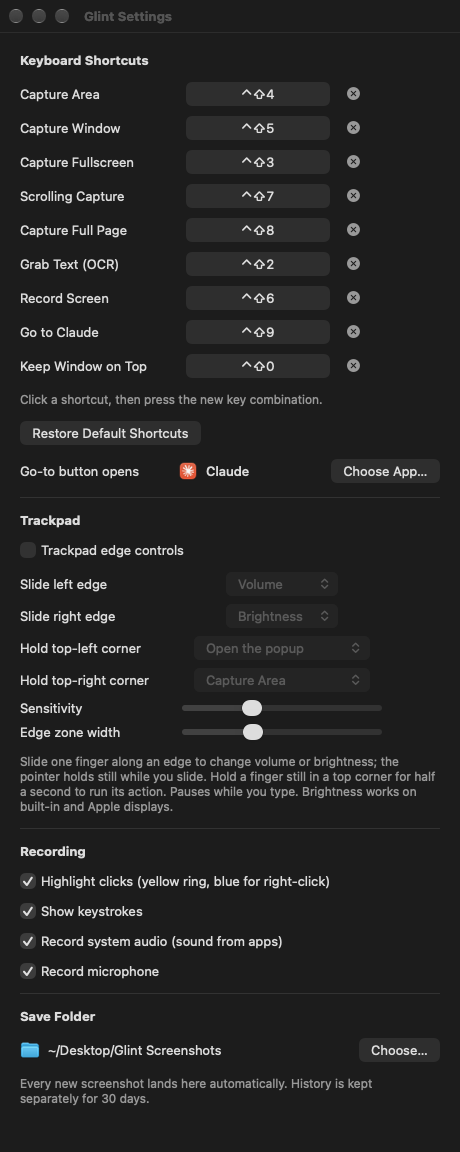
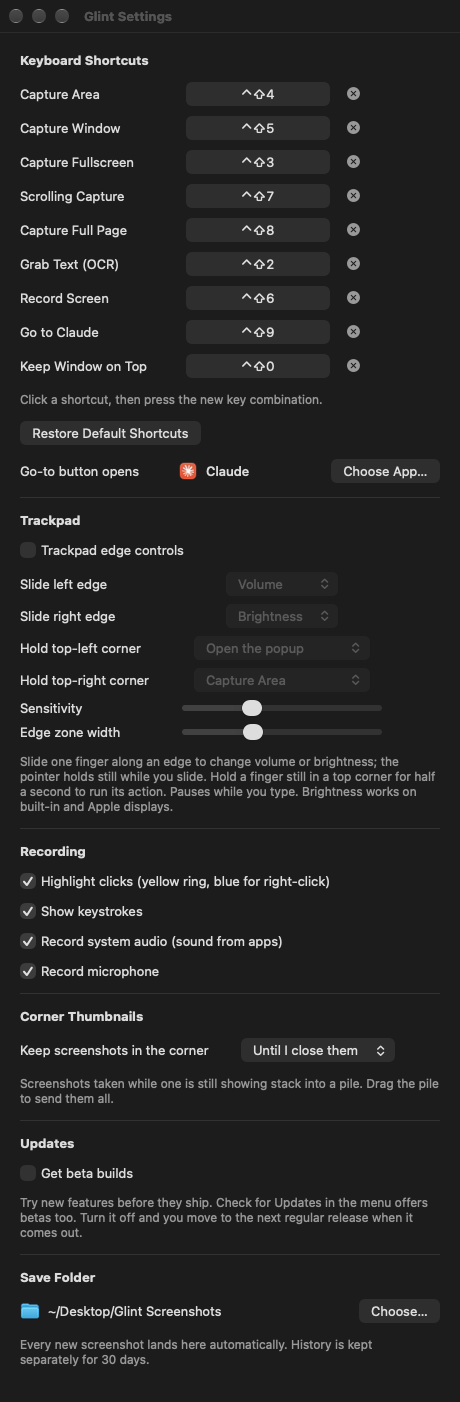
Version 0.2.3: screenshot pile, What's New, README

diff --git a/Sources/Pile.swift b/Sources/Pile.swift
@@ -119,7 +119,7 @@ struct PileCollapsedView: View {
 
     private var overlay: some View {
         ZStack {
-            Color.black.opacity(state.controlsVisible ? 0.35 : 0).allowsHitTesting(false)
+            Color.black.opacity(state.controlsVisible ? 0.5 : 0).allowsHitTesting(false)
             VStack {
                 HStack(alignment: .top) {
                     Text("\(model.items.count)")
@@ -140,7 +140,9 @@ struct PileCollapsedView: View {
                 Spacer()
                 if state.controlsVisible {
                     Text("Click to see all · drag to send all")
-                        .font(.system(size: 10, weight: .medium)).foregroundStyle(.white.opacity(0.85))
+                        .font(.system(size: 10, weight: .medium)).foregroundStyle(.white)
+                        .padding(.horizontal, 8).padding(.vertical, 3)
+                        .background(.black.opacity(0.6), in: Capsule())
                         .allowsHitTesting(false)
                 }
                 Button {
@@ -149,7 +151,8 @@ struct PileCollapsedView: View {
                     Label("Copy all", systemImage: "doc.on.doc")
                         .font(.system(size: 11, weight: .semibold))
                         .padding(.horizontal, 10).padding(.vertical, 5)
-                        .background(.white.opacity(0.22), in: Capsule())
+                        .background(Color(white: 0.16).opacity(0.92), in: Capsule())
+                        .overlay(Capsule().stroke(.white.opacity(0.25), lineWidth: 1))
                         .foregroundStyle(.white)
                 }
                 .buttonStyle(.plain).padding(.bottom, 8)
@@ -353,7 +356,14 @@ enum PileTest {
                     s.draw(at: NSPoint(x: 300, y: 210), withAttributes: [.font: NSFont.boldSystemFont(ofSize: 72), .foregroundColor: NSColor.white])
                     return true
                 }
-                if let tiff = img.tiffRepresentation, let png = NSBitmapImageRep(data: tiff)?.representation(using: .png, properties: [:]) {
+                // -pile.source <png>: use crops of that image instead (the README's made-up dashboard).
+                let crops = [CGRect(x: 30, y: 220, width: 1140, height: 170), CGRect(x: 40, y: 395, width: 740, height: 365),
+                             CGRect(x: 785, y: 395, width: 380, height: 330)]
+                if let src = UserDefaults.standard.string(forKey: "pile.source"), let cg = Store.cgImage(URL(fileURLWithPath: src)),
+                   let part = cg.cropping(to: crops[i]),
+                   let png = NSBitmapImageRep(cgImage: part).representation(using: .png, properties: [:]) {
+                    try? png.write(to: u)
+                } else if let tiff = img.tiffRepresentation, let png = NSBitmapImageRep(data: tiff)?.representation(using: .png, properties: [:]) {
                     try? png.write(to: u)
                 }
                 urls.append(u)

diff --git a/Sources/Onboarding.swift b/Sources/Onboarding.swift
@@ -159,6 +159,11 @@ struct WhatsNew {
 
     /// Notes per version. Add an entry when a release has something worth showing; versions without one stay quiet.
     static let notes: [String: WhatsNew] = [
+        "0.2.3": WhatsNew(headline: "Shots pile up, send them together", features: [
+            Feature(title: "Screenshot pile", body: "Take a few shots in a row and they stack in the corner. Drag the pile into Claude or any app to send them all, or click it to pick one.", media: "sf:square.stack.3d.up.fill"),
+            Feature(title: "Copy all", body: "Hover the pile and hit Copy all to paste every shot at once.", media: "sf:doc.on.doc.fill"),
+            Feature(title: "Stays until you're done", body: "Corner thumbnails now wait until you close them. Prefer them to fade? Settings > Corner Thumbnails.", media: "sf:clock.fill"),
+        ]),
         "0.2.2": WhatsNew(headline: "Pin a window, swipe the edges", features: [
             Feature(title: "Keep a window on top", body: "Press Control-Shift-0 and click any window. It stays above everything until you unlock it from the menu bar.", media: "sf:pin.square.fill"),
             Feature(title: "Trackpad edge controls", body: "Slide one finger along the left edge for volume, the right edge for brightness. Hold a top corner to run an action. Turn it on in Glint Settings.", media: "sf:hand.point.up.left.fill"),

diff --git a/Sources/Settings.swift b/Sources/Settings.swift
@@ -223,7 +223,7 @@ enum SettingsWindow {
         let w = window ?? {
             // Taller than a laptop screen with every section, so it scrolls and fits the screen.
             let screenH = (NSScreen.main?.visibleFrame.height ?? 900) - 40
-            let w = NSWindow(contentRect: NSRect(x: 0, y: 0, width: 460, height: min(1120, screenH)),
+            let w = NSWindow(contentRect: NSRect(x: 0, y: 0, width: 460, height: min(1400, screenH)),
                              styleMask: [.titled, .closable, .resizable], backing: .buffered, defer: false)
             // Test builds carry their tag (added by the release workflow) so you can tell them apart.
             let beta = Bundle.main.object(forInfoDictionaryKey: "GlintBetaTag") as? String
@@ -233,7 +233,7 @@ enum SettingsWindow {
             host.sizingOptions = []
             w.contentView = host
             w.contentMinSize = NSSize(width: 460, height: 360)
-            w.contentMaxSize = NSSize(width: 460, height: 1120)
+            w.contentMaxSize = NSSize(width: 460, height: 1400)
             w.center()
             window = w
             return w

diff --git a/README.md b/README.md
@@ -80,26 +80,32 @@ Arrows, boxes, highlights, numbered steps, text, pixelate and crop. Every mark s
 
 <br>
 
-## 🪄 New in 0.2.2
+## 🪄 New in 0.2.3: the screenshot pile
 
 <table>
   <tr>
-    <td width="50%"><img src="docs/whats-new.png" alt="Glint's What's New card for 0.2.2: Keep a window on top, and trackpad edge controls" width="100%"></td>
-    <td width="50%">
-      <b>Keep a window on top.</b> Press ⌃⇧0 and click any window. It stays above everything, even other apps, until you unlock it from the menu bar.<br><br>
-      <b>Trackpad edges.</b> Slide one finger down the left edge for volume, the right edge for brightness. Hold a top corner to open the popup or capture. Turn it on in Settings.
+    <td width="34%" align="center"><img src="docs/pile-stacked.png" alt="Three screenshots stacked in the corner with a count badge, a Copy all button and the hint: click to see all, drag to send all" width="232"></td>
+    <td width="66%">
+      Take a few shots in a row and they <b>stack in the corner</b>, newest on top.<br><br>
+      <b>Drag the pile</b> into Claude, Slack or Finder and they all go. <b>Copy all</b> pastes every one.<br><br>
+      <b>Click it</b> to lay them out and drag or right-click just one.
     </td>
   </tr>
 </table>
+
+<img src="docs/pile-fanned.png" alt="The pile laid out: three screenshots side by side with Copy all and Stack buttons" width="100%">
 
 <br>
 
 ## 📌 And the small things
 
 **Quick access** · every shot waits in the corner: drag it anywhere, or hover for Copy, Annotate and Pin.<br>
+**Keep on top** · press ⌃⇧0 and click any window to lock it above everything, even other apps.<br>
+**Trackpad edges** · slide one finger down the left edge for volume, the right edge for brightness; hold a top corner to run an action.<br>
 **Pins** · float a screenshot above every window, fade it, or make it click-through.<br>
 **History** · 30 days of captures, one click from the menu bar.<br>
 **Welcome tour** · a quick guided start on first launch, and a What's New card after each update.<br>
+**Betas** · turn on Get beta builds in Settings and new features arrive through Check for Updates first.<br>
 **Private** · no account, no cloud. Everything stays on your Mac.
 
 <br>
@@ -122,7 +128,7 @@ Arrows, boxes, highlights, numbered steps, text, pixelate and crop. Every mark s
 
 Esc cancels any selection. Change any shortcut in Settings.
 
-<p align="center"><img src="docs/settings-window.png" alt="Glint Settings: shortcuts, the Go-to app, trackpad edge controls, recording options and save folder" width="360"></p>
+<p align="center"><img src="docs/settings-window.png" alt="Glint Settings: shortcuts, the Go-to app, trackpad edge controls, recording, corner thumbnails, beta updates and save folder" width="360"></p>
 </details>
 
 <details>
